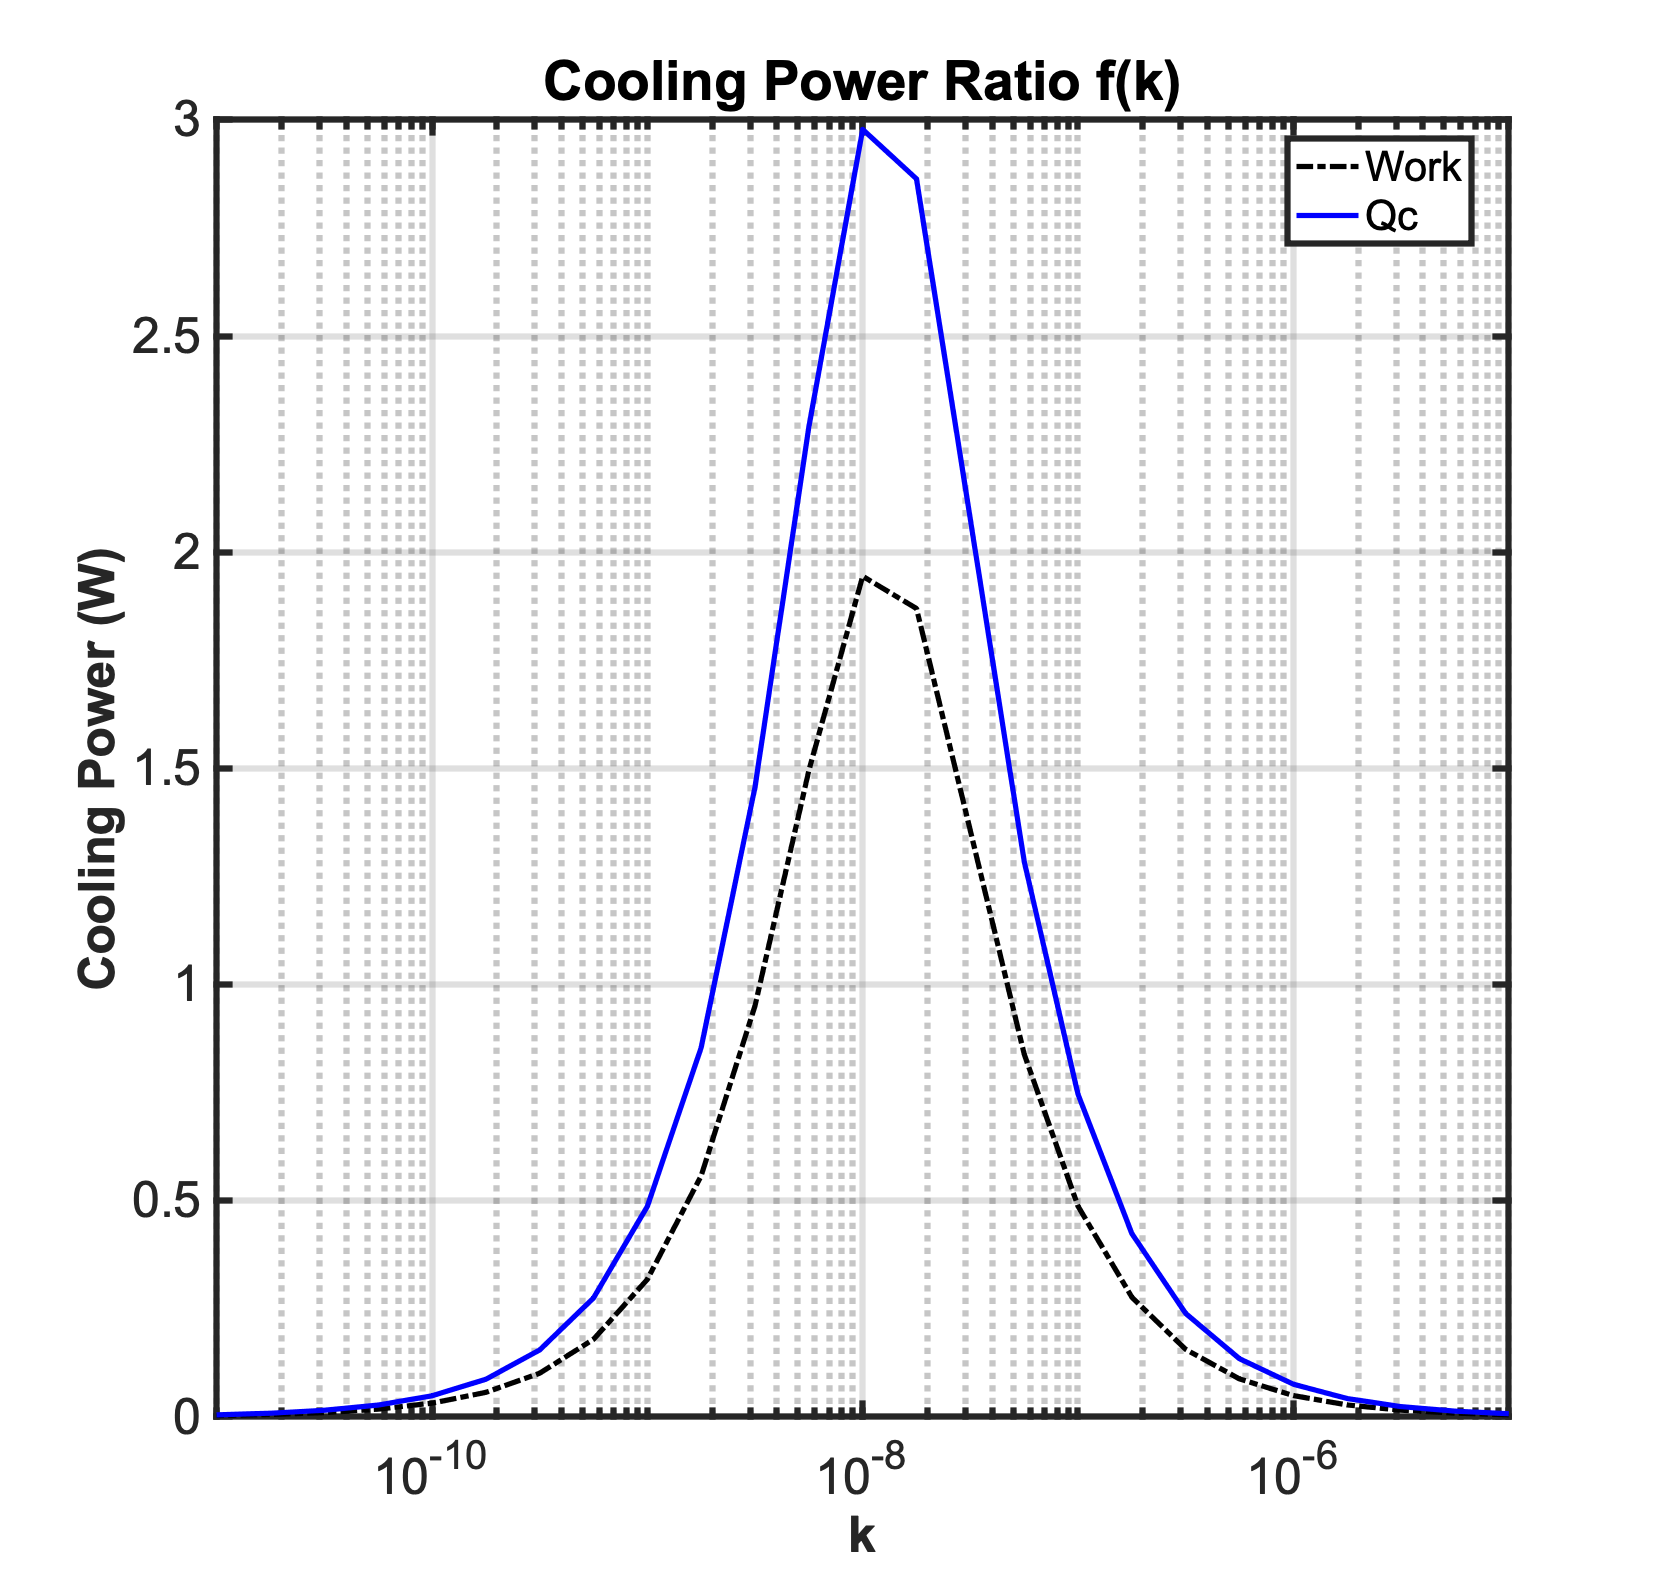
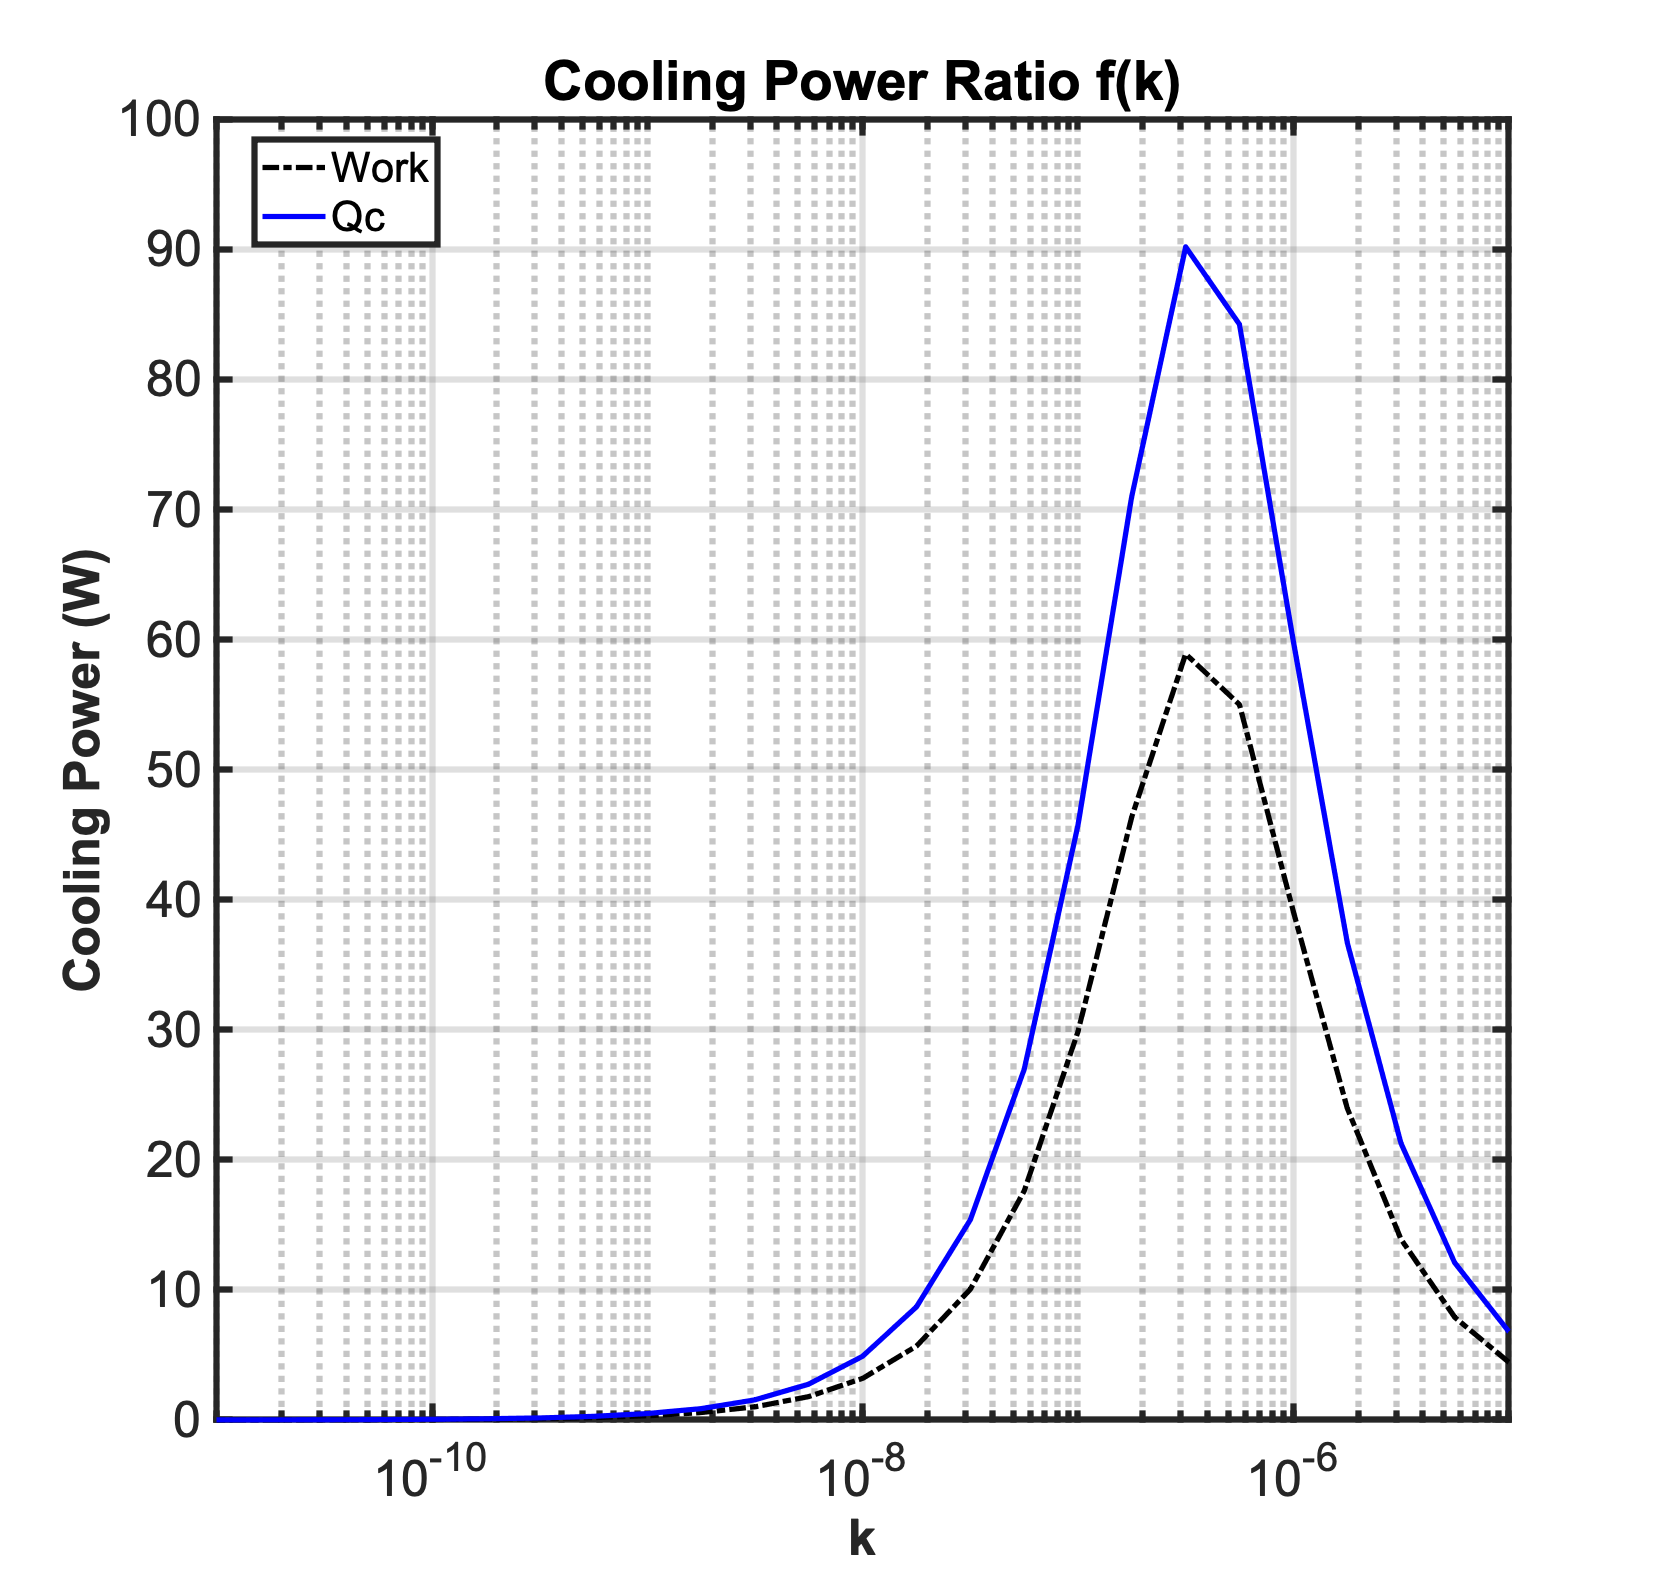
feat: python translation in progress

diff --git a/src/PTRanalysis-python/PTRanalysis.py b/src/PTRanalysis-python/PTRanalysis.py
@@ -1,0 +1,232 @@
+'''Pulse
+Tube
+Refrigerator
+Analysis
+# First
+developed
+by: Alisha
+Schor, alisha.schor @ gmail.com
+Used
+from DSpace
+# Further
+Developed
+by
+Jacob
+Miske
+for 2.013 PTR 2019-2020
+Define
+geometric
+parameters
+# All
+units
+SI(kg - m - s)
+TODO: input
+based
+calculations
+'''
+
+import numpy as np
+
+# convert metric
+TOSI = 0.0254;
+pi = 3.141592653
+
+## # Dimensions
+# Swept
+#Volume(cylinder)
+dswept = 1.364 * TOSI;
+lswept = 0.1;
+f = 60; # Hz
+Aswept = pi * dswept ^ 2 / 4;
+w = 2 * pi * f;
+# Aftercooler(first HEX)
+do = 0.811 * TOSI;
+lo = 0.7 * TOSI;
+Ao = pi * do ^ 2 / 4;
+Vo = Ao * lo;
+# Regenerator
+dr = 1.364 * TOSI;
+lr = 6 * TOSI;
+Ar = pi * dr ^ 2 / 4;
+Vr = Ar * lr;
+# ColdHEX
+dc = 0.811 * TOSI;
+lc = 0.7 * TOSI;
+Ac = pi * dc ^ 2 / 4;
+Vc = Ac * lc;
+# PulseTube
+dpt = 0.81 * TOSI
+lpt = 6 * TOSI
+Apt = pi * dpt ^ 2 / 4
+Vpt = Apt * lpt
+# WarmHEX
+dh = 0.811 * TOSI;
+lh = 0.7 * TOSI;
+Ah = pi * dh ^ 2 / 4;
+Vh = Ah * lh;
+# Choose temperatures
+Tc = 190; # K
+Th = 300; # K
+Tr = (Th - Tc) / np.log(Th / Tc);
+# NOTE: Either properties of air or properties
+# of nitrogen must be commented prior to running
+# this file, only one set of working fluid
+# params is used
+
+# # Material Properties
+
+# TODO: have users input Air, N, CH4, or He and re - evalaute model for each
+
+# Properties of air
+# R = 287; # J / kg - K
+# rhoo = 1.229; # kg / m - 3
+# gamma = 1.4;
+# Patm = 1.1Oe5; # Pa
+# mu = 1.5e-5; # Pa - s
+# cp = 1003; # J / kg - K
+# kair = 0.02544; # W / m - K
+# nu = 1.475e-5; # m ^ 2 / s
+
+# Properties of nitrogen
+R = 290; # J / kg - K
+rhoo = 1.116; # kg / m ^ 3
+gamma = 1.4; # Non - dimensional
+Patm = 1.01e5; # Pa
+mu = 1.8042e-5; # Pa - s
+cp = 1041.4; # J / kg - K
+kair = 0.02607; # W / m - K
+nu = 1.6231 - 5; # m ^ 2 / s
+
+# Properties of Helium
+R = 2077; # J / kg - K
+rhoo = 0.2501; # kg / m ^ 3 at - 80 C
+gamma = 1.4; # Non - dimensional
+Patm = 1.01e5; # Pa
+mu = 1.96e-5; # Pa - s
+cp = 5188; # J / kg - K
+kair = 0.149; # W / m - K
+nu = 1.87 - 5; # m ^ 2 / s
+
+# Properties of copper
+ccu = 385; # J / kg - K
+kcu = 385; # W / m - K
+rhocu = 8960; # kg / m ^ 3
+
+# Chosen properties for init pressure and k(orifice flow rate)
+Po = Patm;
+Va = Aswept * lswept;
+k = 2:0.25:15;
+k = 10. ^ (-k);
+
+# # Time vector
+t = 0:0.005: 2;
+for j = 1:length(k):
+    a(j) = R * Th / Po * (Vh / (R * Th) + (k(j) * rhoo / (i * w)));
+
+    b(j) = a(j) + Vpt / (gamma * Po) + Vh / (rhoo * R * Th) - 1 / rhoo * (Vh / (R * Th) + ...
+    (k(j) * rhoo / (i * w)) + k(j) / (i * w));
+
+    c(j) = R * Th / Po * (Vo / (R * Th) + Vr / (R * Th) + Vc / (R * Tc) + b(j) * Po / (R * Tc) - ...
+                          b(j) * rhoo + a(j) * rhoo + rhoo * Vpt / (gamma * Po) + Vh / (R * Th) - a(j) * ...
+    Po / (R * Th) + k(j) * rhoo / (i * w));
+
+
+phase = angle(c) * 180 / pi;
+MagC = abs(c);
+
+# # Calculate work and cooling power by choosing either
+# pressure or volume amplitude.
+# Pa = Va. / MagC or Va = Pa. * MagC
+Pa = Va / MagC;
+Work = .5 * Pa * Va * np.sin(angle(c)) * f;
+DV3 = Pa * abs(b);
+Qc = abs(-.5 * Pa * DV3 * np.sin(angle(b)) * f + i * w / (R * Tc) * (Pa * Vc + DV3 * Po));
+
+MaxWork = max(-Work);
+MaxCooling = max(Qc);
+for g = 1:length(Work):
+    if Qc(g) == MaxCooling:
+        OptimumK = k(g);
+        OptimumPhase = angle(c(g)) * 180 / pi;
+        MassFlow = OptimumK * rhoo * Pa(g);
+        VolFlow = OptimumK * Pa(g);
+
+# # Plot outputs
+'''
+figure(1)
+subplot(2, 1, 1)
+semilogx(k, phase);
+xlabel('k');
+ylabel('Phase (deg)');
+grid
+on
+title("P-T Phase Shift and Cooling Power")
+xlim([1e-10, 1e-6])
+hold
+on
+subplot(2, 1, 2)
+semilogx(k, -Work, 'k-.');
+hold
+on
+semilogx(k, Qc, 'b');
+legend('Work', 'Qc')
+xlabel('k');
+ylabel('Cooling Power (W)');
+grid
+on
+xlim([1e-11, 1e-5])
+saveas(gcf, "phase_and_cooling.png")
+'''
+
+# # PhaseShift
+'''
+Plot
+figure(2)
+semilogx(k, phase);
+xlabel('k');
+ylabel('Phase (deg)');
+grid
+on
+title("P-T Phase Shift")
+xlim([1e-10, 1e-6])
+improvePlot
+saveas(gcf, "phase.png")
+'''
+
+# # Cooling Power
+'''
+Plot
+figure(3)
+semilogx(k, -Work, 'k-.');
+hold
+on
+semilogx(k, Qc, 'b');
+legend('Work', 'Qc')
+xlabel('k');
+ylabel('Cooling Power (W)');
+grid
+on
+xlim([1e-11, 1e-5])
+title("Cooling Power Ratio f(k)")
+improvePlot
+saveas(gcf, "cool_power.png")
+'''
+
+# # Valve sizing and Cv
+# Based on Swagelok & Parker references
+Q = OptimumK * Pa(g) * 2118.88; # CFM
+P1 = (Po + Pa(g) / 2) * 0.0001450377; # PSIA
+P2 = Po * 0.0001450377; # PSIA
+# SG = I; # air
+SG = 0.967; # nitrogen
+T = (Th - 273.15) * 9 / 5 + 32 + 460; # "Absolute Temperature"
+T = 180;
+Cv = Q / 16.05 * sqrt(SG * T / (P1 ^ 2 - P2 ^ 2));
+
+# Required nozzle size based on mass flow rate
+Pup = 60; # upstream pressure in psi
+Pup = Pup * 6894.757; # upstream pressure in Pa
+Anoz = MassFlow / (gamma ^ .5) * (2 / (gamma + 1)) ^ (-(gamma + 1) / (2 * gamma - 1)) * sqrt(R * Th) / (Pup);
+Dnoz = sqrt(4 / pi * Anoz);
+
+
